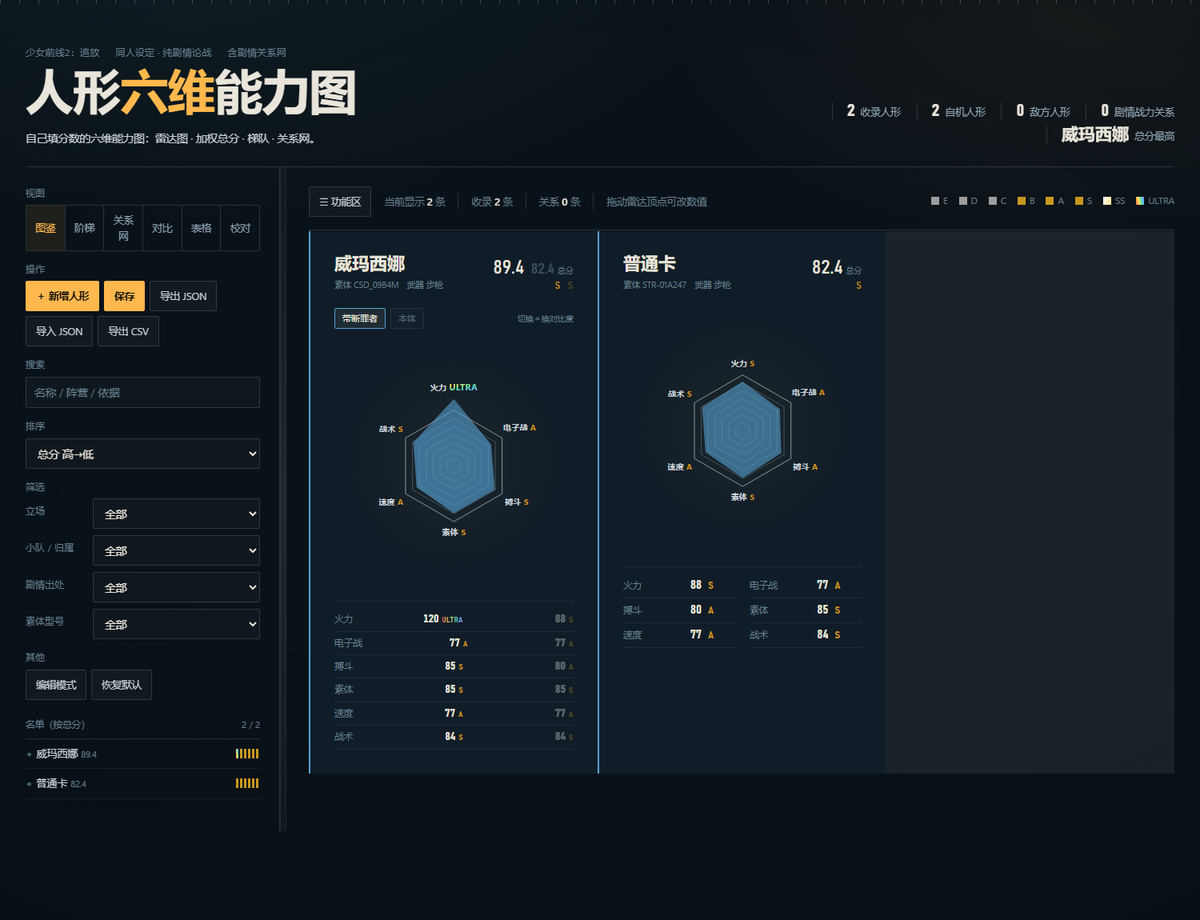
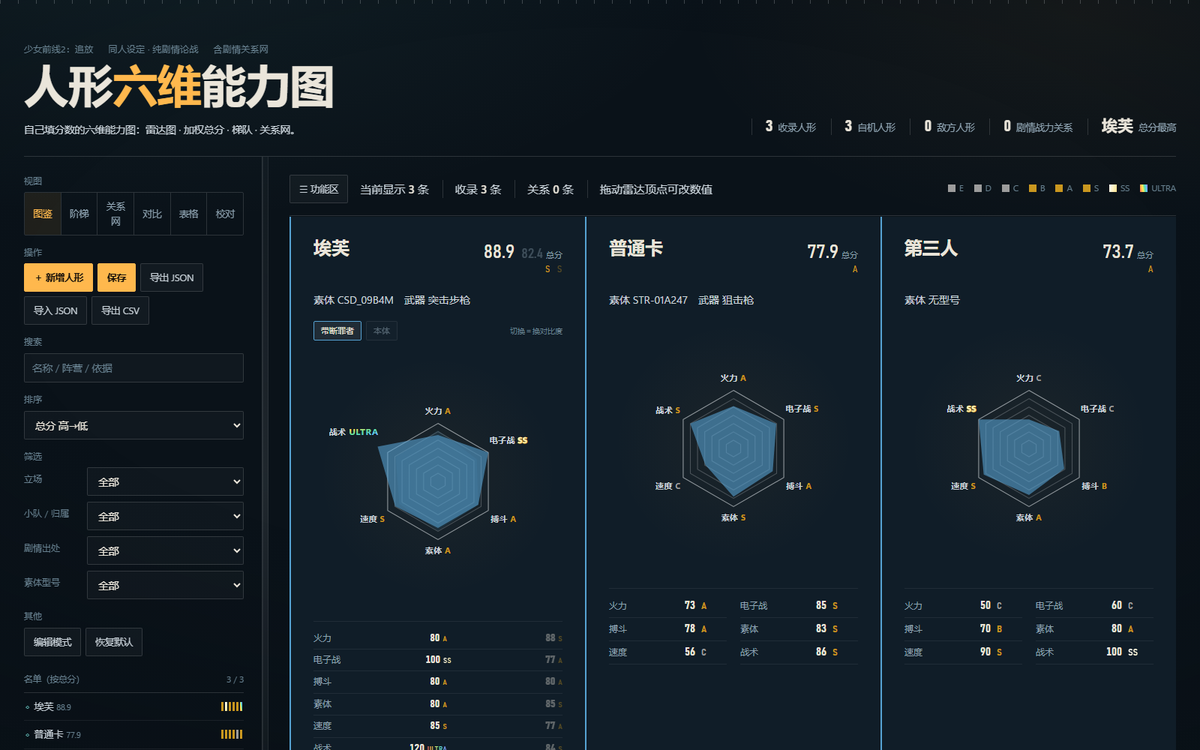
feat(ui): 卡片顶部放大加亮、编辑弹窗双形态改用同一套模板、数值支持滚轮微调
1. 素体型号行 10.5px→14px 且移出 .ptop 独占一行（不再被总分挤换行）；人名 22→24px、总分 24→26px 不断行、总分与账本小字加亮
2. 顶部状态行（当前显示/收录/关系/提示）12.5→15px、颜色 --paper-faint→--paper-2
3. 编辑弹窗：抽出 buildSliderBlock()，主形态与第二形态各一套完全相同的「维度名+滑条+档位输出+参与总分」，第二形态另有独立草稿雷达 #mChart2、名称输入、启用勾选、预设下拉；saveEditor 仅在启用时写 e.form2={label,vals,use}，取消启用会 delete
4. 全局 wheel 监听：所有 number 输入框可滚轮 ±step，带 min/max 钳制并阻止页面滚动

实测：人名 24px / 素体行 14px 单行 / 顶栏 15px；弹窗两套滑块各 6 条、预设一次填满两形态、第二形态滑条改动实时反映到 mS2 与输出；未启用保存 form2=undefined、启用保存 form2 完整；滚轮 50→51 / 49、上限 200 保护；19 PASS

diff --git a/少前2_人形六维能力图.html b/少前2_人形六维能力图.html
@@ -107,7 +107,7 @@ input:focus,select:focus{border-color:var(--amber);background:rgba(229,161,60,.0
 /* ===== plot area ===== */
 .plotbar{display:flex;flex-wrap:wrap;gap:14px;align-items:center;justify-content:space-between;
   padding-bottom:16px;border-bottom:1px solid var(--line)}
-.tally{display:flex;flex-wrap:wrap;gap:10px 16px;font-size:12.5px;color:var(--paper-faint);font-variant-numeric:tabular-nums;margin-right:auto}
+.tally{display:flex;flex-wrap:wrap;gap:10px 18px;font-size:15px;color:var(--paper-2);font-variant-numeric:tabular-nums;margin-right:auto}
 .tally span+span{padding-left:16px;border-left:1px solid var(--line)}
 .tally b{color:var(--paper);font-weight:600}
 .scale{display:flex;gap:14px;flex-wrap:wrap;font-size:11.5px;color:var(--paper-faint);align-items:center}
@@ -122,8 +122,8 @@ input:focus,select:focus{border-color:var(--amber);background:rgba(229,161,60,.0
 .plate.self{border-left:2px solid var(--acc-self,var(--amber))}
 .plate.foe{border-left:2px solid var(--acc-foe,var(--crimson))}
 @keyframes rise{from{opacity:0;transform:translateY(10px)}to{opacity:1;transform:none}}
-.ptop{display:flex;justify-content:space-between;gap:12px;align-items:flex-start}
-.pname{font-family:var(--dsp);font-size:22px;line-height:1.15;letter-spacing:-.005em}
+.ptop{display:flex;justify-content:space-between;gap:10px;align-items:flex-start}
+.pname{font-family:var(--dsp);font-size:24px;line-height:1.15;letter-spacing:-.005em}
 .pfaction{font-size:11.5px;color:var(--paper-dim);margin-top:3px}
 .psrc{font-size:10.5px;color:var(--paper-faint);margin-top:2px}
 .mark{font-size:10.5px;letter-spacing:.06em;padding:2px 7px;border:1px solid var(--line);white-space:nowrap;color:var(--paper-dim)}
@@ -141,7 +141,7 @@ svg.radar{display:block;width:100%;height:auto;overflow:visible;position:relativ
 .evidence{font-size:11.5px;line-height:1.55;color:var(--paper-dim);border-left:1px solid var(--line-hard);padding-left:9px}
 .ledger{display:grid;grid-template-columns:1fr 1fr;gap:0 18px;border-top:1px solid var(--line-soft);padding-top:8px}
 .led{display:flex;justify-content:space-between;gap:8px;align-items:baseline;padding:3px 0;border-bottom:1px solid var(--line-soft)}
-.led span{font-size:11.5px;color:var(--paper-faint)}
+.led span{font-size:12px;color:var(--paper-dim)}
 .led b{font-family:var(--dsp);font-size:15px;font-variant-numeric:tabular-nums}
 .pfoot{display:flex;justify-content:space-between;align-items:flex-end;padding-top:10px;border-top:1px solid var(--line)}
 .total{font-family:var(--dsp);font-size:26px;font-variant-numeric:tabular-nums;line-height:1}
@@ -192,6 +192,17 @@ table.roster td.num{font-variant-numeric:tabular-nums}
 .editmeta{flex:1;min-width:200px}
 .editmeta .q{font-size:11.5px;line-height:1.85;color:var(--paper-dim)}
 .editmeta b{color:var(--paper);font-size:15px}
+.sblock{margin-top:16px;border-top:1px solid var(--line-soft);padding-top:12px}
+.sblock .sliders{margin-top:6px;border-top:0;padding-top:0}
+.shead{display:flex;flex-wrap:wrap;gap:10px;align-items:center;margin-bottom:6px}
+.shead b{font-family:var(--dsp);font-size:15px;color:var(--paper)}
+.shead input[type=text]{padding:4px 8px;background:rgba(0,0,0,.22);border:1px solid var(--line);border-radius:2px;color:inherit;font-size:13.5px;min-width:130px}
+.shead .shint{font-size:11.5px;color:var(--paper-faint)}
+.shead .suse{display:flex;align-items:center;gap:6px;font-size:12.5px;color:var(--paper-dim)}
+.shead select{margin-left:auto;padding:4px 7px;background:var(--ink-900);border:1px solid var(--line);border-radius:2px;color:var(--paper-2);font-size:12.5px}
+.sblock[data-on="0"] .sliders{opacity:.32;pointer-events:none}
+.sblock[data-on="0"] .shead select{margin-left:auto}
+.editcmp{flex-wrap:wrap}
 .srow{display:grid;grid-template-columns:96px 1fr 56px;align-items:center;gap:14px;padding:5px 0}
 .srow label{font-size:12.5px;color:var(--paper-dim)}
 .srow output{font-family:var(--dsp);font-size:16px;text-align:center;border:1px solid var(--line);padding:1px 0}
@@ -217,7 +228,7 @@ input[type=range]::-webkit-slider-thumb{-webkit-appearance:none;width:13px;heigh
 }
 @media print{.rail,.acts,.plotbar{display:none}.plate{animation:none}}
 
-.frm{font-size:10.5px;color:var(--paper-faint);margin-top:4px}
+.frm{font-size:14px;color:var(--paper-2);margin-top:2px;letter-spacing:0;line-height:1.35;white-space:nowrap;overflow:hidden;text-overflow:ellipsis}
 .verdict{font-size:11px;color:#c9a15a;border-left:2px solid #7b5a1f;padding-left:8px;margin-top:-4px}
 .netbar.kinds{margin-bottom:6px}
 .relbtn.kind{font-size:11.5px;padding:3px 8px}
@@ -228,8 +239,8 @@ input[type=range]::-webkit-slider-thumb{-webkit-appearance:none;width:13px;heigh
 .kbadge.定位{color:#c8455f;border-color:#5a2029}
 .frm .up{color:#66a9a0}
 .frm .dn{color:#c9a15a}
-.rankno{font-family:var(--dsp);font-size:24px;line-height:1.05;font-variant-numeric:tabular-nums;margin-top:4px}
-.rankno small{font-family:var(--txt);font-size:10px;color:var(--paper-faint);margin-left:4px}
+.rankno{font-family:var(--dsp);font-size:26px;line-height:1.05;font-variant-numeric:tabular-nums;margin-top:4px;white-space:nowrap}
+.rankno small{font-family:var(--txt);font-size:11px;color:var(--paper-dim);margin-left:4px}
 .tier{font-family:var(--dsp);font-size:12px;letter-spacing:.06em}
 .led b.num{margin-left:auto}
 .led{display:grid;grid-template-columns:1fr auto 34px;align-items:baseline;gap:8px}
@@ -396,23 +407,26 @@ svg.net{display:block;width:100%;height:auto}
     </div>
     <div class="editcmp">
       <div class="editchart" id="mChart"></div>
+      <div class="editchart" id="mChart2" style="flex:0 0 210px;display:none"></div>
       <div class="editmeta">
         <label class="field"><span>对比对象</span><select id="mCmpPick"></select></label>
         <div class="q" id="mStat"></div>
       </div>
     </div>
-    <div class="sliders" id="mSliders"></div>
-    <div class="form2">
-      <div class="f2head"><b>双形态</b>
-        <span>填了「第二形态」这张卡就会多出切换按钮（同一张图叠两形态，切换＝换对比度）</span>
+    <div class="sblock">
+      <div class="shead"><b>主形态</b>
+        <input id="mFormLabel" type="text" placeholder="主表现值">
+        <span class="shint">名字随便起，如「带断罪者」</span></div>
+      <div class="sliders" id="mSliders"></div>
+    </div>
+    <div class="sblock" id="mBlock2">
+      <div class="shead"><b>第二形态</b>
+        <input id="mForm2Label" type="text" placeholder="如 本体">
+        <label class="suse"><input type="checkbox" id="mForm2On"> 启用（卡上出现切换按钮）</label>
         <select id="mFormPreset"><option value="">载入预设…</option>
           <option value="wmx">威玛西娜 · 带断罪者／本体</option>
           <option value="lfy">六分仪 · 入队时／当反派时</option></select></div>
-      <div class="f2row">
-        <label class="field"><span>主形态名称</span><input id="mFormLabel" type="text" placeholder="主表现值"></label>
-        <label class="field"><span>第二形态名称</span><input id="mForm2Label" type="text" placeholder="如 本体"></label>
-      </div>
-      <div class="f2vals" id="mForm2Vals"></div>
+      <div class="sliders" id="mSliders2"></div>
     </div>
     <div class="sheetactions"><button class="btn" id="mCancel">取消</button><button class="btn solid" id="mSave">保存</button></div>
   </div>
@@ -751,13 +765,14 @@ function cardHTML(e, idx, opts){
   var V = fv ? fv.forms.map(function(f){ return fvValues(fv, f); }) : null;
   var series = fv ? fv.forms.map(function(f, i){ return { vals: V[i], color: acc, cls: 'fp f' + i }; })
                   : [{ vals:e.s, color:acc, letters:dimLettersOf(e) }];
+  var FVU = fv ? [ e.use, (e.form2 && e.form2.use) || null ] : null;
   return '<article class="plate '+(e.side==='foe'?'foe':'self')+(fv?' dual':'')+(opts.noAnim?' noanim':'')+'" id="card-'+e.id+'" data-active="'+(fv?(formPick==='1'?'1':'0'):'0')+'"'
     +' style="'+(fv?'--acc:'+acc+';':'')+'animation-delay:'+Math.min(idx,26)*22+'ms">'+
-    '<div class="ptop"><div><h3 class="pname">'+esc(e.name)+'</h3>'+
-    '<div class="frm">素体 '+(e.frame?esc(e.frame):'无型号')+(e.weapon?'　武器 '+esc(e.weapon):'')+'</div></div>'+
-    '<div style="text-align:right">'+(fv?fvTotalsHTML(V):
+    '<div class="ptop"><div><h3 class="pname">'+esc(e.name)+'</h3></div>'+
+    '<div style="text-align:right">'+(fv?fvTotalsHTML(V, FVU):
       '<div class="rankno">'+(e.total!=null?e.total:'—')+'<small>总分</small></div>'+
       '<div class="tier" style="'+gradeStyle(e.tier)+'">'+e.tier+'</div>')+'</div></div>'+
+    '<div class="frm">素体 '+(e.frame?esc(e.frame):'无型号')+(e.weapon?'　武器 '+esc(e.weapon):'')+'</div>'+
     (fv?fvBarHTML(fv):'')+
     '<div class="chart">'+radar(series, LAYOUT.sizeCard, fv?{ gradesAll:true }: { drag:true })+'</div>'+
     '<div class="ledger'+(fv?' dual':'')+'">'+(fv?fvLedgerHTML(V):ledgerHTML(e))+'</div>'+
@@ -1134,9 +1149,9 @@ function fvValues(ch, form){
   if (fvLive(form) && e && e.s && e.s.length === 6) return e.s.slice();
   return form.values.slice();
 }
-function fvTotal(vals){
-  var num = 0, den = 0;
-  DIMS.forEach(function(d, i){ if (WEIGHTS[i]) { num += WEIGHTS[i] * vals[i]; den += WEIGHTS[i]; } });
+function fvTotal(vals, use){
+  var num = 0, den = 0, us = use || [true,true,true,true,true,true];
+  DIMS.forEach(function(d, i){ if (us[i] !== false && WEIGHTS[i]) { num += WEIGHTS[i] * vals[i]; den += WEIGHTS[i]; } });
   return den ? Math.round(num / den * 10) / 10 : 0;
 }
 function fvBarHTML(ch){
@@ -1153,8 +1168,9 @@ function fvLedgerHTML(V){
       '<b class="b">' + b + '<i style="'+gradeStyle(letterOf(b))+'">' + letterOf(b) + '</i></b></div>';
   }).join('');
 }
-function fvTotalsHTML(V){
-  var t0 = fvTotal(V[0]), t1 = fvTotal(V[1]), L0 = letterOf(t0), L1 = letterOf(t1);
+function fvTotalsHTML(V, U){
+  var us = U || [null, null];
+  var t0 = fvTotal(V[0], us[0] || undefined), t1 = fvTotal(V[1], us[1] || undefined), L0 = letterOf(t0), L1 = letterOf(t1);
   return '<div class="rankno"><span class="ta">' + t0 + '</span><span class="tb">' + t1 + '</span><small>总分</small></div>' +
     '<div class="tier"><span class="ta" style="'+gradeStyle(L0)+'">' + L0 + '</span>' +
     '<span class="tb" style="'+gradeStyle(L1)+'">' + L1 + '</span></div>';
@@ -1185,26 +1201,49 @@ function render(){
 
 /* ---------- 编辑 ---------- */
 var editId = null, mS = [50,50,50,50,50,50], mUse = [true,true,true,true,true,true];
-function buildSliders(){
-  var box = q('mSliders');
+var mS2 = [50,50,50,50,50,50], mUse2 = [true,true,true,true,true,true];
+/* 一套模板给两个形态共用：boxId 容器、vals/use 数组（按引用写回）、key 生成 id、onInput 重画回调 */
+function buildSliderBlock(boxId, vals, use, key, onInput){
+  var box = q(boxId); if (!box) return;
   box.innerHTML = DIMS.map(function(dim,i){
-    return '<div class="srow"><label for="sl'+i+'">'+dim+'</label>'+
-      '<input id="sl'+i+'" type="range" min="0" max="200" step="1" value="'+mS[i]+'" data-i="'+i+'">'+
-      '<output data-i="'+i+'">'+mS[i]+' '+letterOf(mS[i])+'</output>'+
-      '<label style="font-size:11px;color:var(--paper-dim);display:flex;align-items:center;gap:4px"><input type="checkbox" data-use="'+i+'"'+(mUse[i]?' checked':'')+'> 参与总分</label></div>';
+    return '<div class="srow"><label for="'+key+i+'">'+dim+'</label>'+
+      '<input id="'+key+i+'" type="range" min="0" max="200" step="1" value="'+vals[i]+'" data-i="'+i+'">'+
+      '<output data-i="'+i+'">'+vals[i]+' '+letterOf(vals[i])+'</output>'+
+      '<label style="font-size:11px;color:var(--paper-dim);display:flex;align-items:center;gap:4px"><input type="checkbox" data-use="'+i+'"'+(use[i]?' checked':'')+'> 参与总分</label></div>';
   }).join('');
   Array.prototype.forEach.call(box.querySelectorAll('input[type=range]'), function(r){
     r.addEventListener('input', function(){
-      var i = parseInt(r.getAttribute('data-i'),10); mS[i] = parseInt(r.value,10);
-      var o = box.querySelector('output[data-i="'+i+'"]'); o.textContent = mS[i]+' '+letterOf(mS[i]);
-      o.style.color = GCOLOR[GRADES.indexOf(letterOf(mS[i]))];
-      renderMChart();
+      var i = parseInt(r.getAttribute('data-i'),10); vals[i] = parseInt(r.value,10);
+      paintOutput(box, i, vals[i]);
+      onInput();
     });
   });
-  DIMS.forEach(function(_,i){ var o = box.querySelector('output[data-i="'+i+'"]'); o.style.color = GCOLOR[GRADES.indexOf(letterOf(mS[i]))]; });
+  DIMS.forEach(function(_, i){ paintOutput(box, i, vals[i]); });
   Array.prototype.forEach.call(box.querySelectorAll('input[data-use]'), function(cb){
-    cb.addEventListener('change', function(){ mUse[parseInt(cb.getAttribute('data-use'),10)] = cb.checked; renderMChart(); });
+    cb.addEventListener('change', function(){ use[parseInt(cb.getAttribute('data-use'),10)] = cb.checked; onInput(); });
   });
+}
+function paintOutput(box, i, v){
+  var o = box.querySelector('output[data-i="'+i+'"]'); if (!o) return;
+  o.textContent = v + ' ' + letterOf(v);
+  o.style.color = GCOLOR[GRADES.indexOf(letterOf(v))];
+}
+function buildSliders(){ buildSliderBlock('mSliders', mS, mUse, 'sl', function(){ renderMChart(); }); }
+function buildSliders2(){ buildSliderBlock('mSliders2', mS2, mUse2, 'sl2', function(){ renderMChart2(); }); }
+function form2On(){ var c = q('mForm2On'); return !!(c && c.checked); }
+function syncBlockState(){
+  var on = form2On();
+  q('mBlock2').setAttribute('data-on', on ? '1' : '0');
+  var c = q('mForm2On'); c.disabled = false;
+  renderMChart2();
+}
+/* 第二形态的草稿图（主形态作淡参照） */
+function renderMChart2(){
+  var box = q('mChart2'); if (!box) return;
+  if (!form2On()){ box.style.display = 'none'; return; }
+  box.style.display = 'block';
+  var series = [ { vals: mS.slice(), color: '#5fb3b0' }, { vals: mS2.slice(), color: '#c8455f' } ];
+  box.innerHTML = radar(series, 210, { labels:false, fillOpacity:0.28 });
 }
 /* ---------- 编辑时的实时对比：左边画草稿，右边可选一个参照 ---------- */
 var mCmpId = '';
@@ -1238,33 +1277,25 @@ function renderMChart(){
   q('mStat').innerHTML = '总分 <b>' + tot + '</b>　' + letterOf(tot) + '　（第 ' + (totals.indexOf(tot) + 1) + '/' + totals.length + '）<br>' +
     DIMS.map(function(d,i){ return DSHORT[i] + '　' + mS[i] + '　' + (mUse[i] === false ? '<span style="color:#c9a15a">不计</span>' : dimRankInfo(mS[i], i)); }).join('<br>');
 }
-function buildForm2(e){
-  q('mForm2Vals').innerHTML = DIMS.map(function(d, i){
-    var v = (e && e.form2 && e.form2.vals) ? e.form2.vals[i] : '';
-    return '<label>' + d + '<input type="number" data-f2="' + i + '" min="0" max="200" step="1" value="' + (v === '' ? '' : v) + '" placeholder="—"></label>';
-  }).join('');
+function loadForm2(e){
   q('mFormLabel').value = (e && e.formLabel) ? e.formLabel : '';
   q('mForm2Label').value = (e && e.form2 && e.form2.label) ? e.form2.label : '';
-}
-function readForm2(){
-  var vals = [], any = false;
-  [].forEach.call(q('mForm2Vals').querySelectorAll('input[data-f2]'), function(inp){
-    var n = parseInt(inp.value, 10);
-    if (isNaN(n)){ vals.push(0); } else { n = Math.max(0, Math.min(200, n)); vals.push(n); any = true; }
-  });
-  if (!q('mForm2Label').value.trim() && !any) return null;
-  return { label: q('mForm2Label').value.trim() || '另一形态', vals: vals };
+  mS2 = (e && e.form2 && e.form2.vals) ? e.form2.vals.slice() : [50,50,50,50,50,50];
+  mUse2 = (e && e.form2 && Array.isArray(e.form2.use)) ? e.form2.use.slice() : [true,true,true,true,true,true];
+  q('mForm2On').checked = !!(e && e.form2);
 }
 function applyFormPreset(key){
   var p = FORM_PRESETS[key];
   if (!p) return;
   q('mFormLabel').value = p.formLabel;
   q('mForm2Label').value = p.form2Label;
-  [].forEach.call(q('mForm2Vals').querySelectorAll('input[data-f2]'), function(inp, i){ inp.value = p.second[i]; });
-  mS = p.main.slice();
-  buildSliders(); renderMChart();
+  q('mForm2On').checked = true;
+  mS = p.main.slice(); mS2 = p.second.slice();
+  mUse = [true,true,true,true,true,true]; mUse2 = [true,true,true,true,true,true];
+  buildSliders(); buildSliders2(); syncBlockState(); renderMChart();
 }
 q('mFormPreset').addEventListener('change', function(){ if (this.value){ applyFormPreset(this.value); this.value = ''; } });
+q('mForm2On').addEventListener('change', syncBlockState);
 function openEditor(id){
   editId = id || null;
   var e = id ? byId(id) : null;
@@ -1277,11 +1308,13 @@ function openEditor(id){
   q('mRank').value = e ? e.total : '—';
   mS = e ? e.s.slice() : [50,50,50,50,50,50];
   mUse = e && Array.isArray(e.use) ? e.use.slice() : [true,true,true,true,true,true];
-  buildForm2(e);
+  loadForm2(e);
   q('mFormPreset').value = '';
   q('mCmpPick').innerHTML = cmpOptions();
   q('mCmpPick').value = mCmpId;
   buildSliders();
+  buildSliders2();
+  syncBlockState();
   renderMChart();
   q('modal').classList.remove('hidden'); q('mName').focus();
 }
@@ -1294,11 +1327,12 @@ function saveEditor(){
   var rec = { name:name, faction:q('mFac').value.trim(), cls:q('mCls').value.trim(), weapon:q('mWeapon').value.trim(),
     brand:q('mBrand').value.trim(), frame:q('mFrame').value.trim(), side:q('mSide').value, src:q('mSrc').value.trim(),
     conf:q('mConf').value, basis:q('mBasis').value.trim(), s:mS.slice(), use:use, total:total, rank:total, tier:letterOf(total) };
-  /* 双形态：第二形态填了才算数 */
-  var f2 = readForm2();
+  /* 多形态：勾了「启用」才算数 */
   rec.formLabel = q('mFormLabel').value.trim() || '';
-  if (f2) rec.form2 = f2;
-  if (editId){ var e = byId(editId); for (var k in rec) e[k] = rec[k]; } else { rec.id = uid(); state.entries.push(rec); }
+  if (form2On()) rec.form2 = { label: q('mForm2Label').value.trim() || '第二形态', vals: mS2.slice(), use: mUse2.slice() };
+  if (editId){ var e = byId(editId); for (var k in rec) e[k] = rec[k];
+    if (!rec.form2) delete e.form2; }                     /* 取消启用时清掉旧数据 */
+  else { rec.id = uid(); state.entries.push(rec); }
   save(); closeEditor(); render();
 }
 function download(name, text, mime){
@@ -1388,6 +1422,20 @@ function applyRail(){
   var f = q('btnFold'); if (f) f.textContent = railFold ? '☰ 展开功能区' : '☰ 功能区';
 }
 
+/* 所有 number 输入框都支持滚轮微调（含 0–200 限制与 step） */
+document.addEventListener('wheel', function(ev){
+  var t = ev.target;
+  if (!t || t.tagName !== 'INPUT' || t.type !== 'number' || t.readOnly) return;
+  var step = parseFloat(t.step) || 1;
+  var v = parseFloat(t.value); if (isNaN(v)) v = parseFloat(t.min) || 0;
+  v += (ev.deltaY < 0 ? step : -step);
+  var mn = (t.min === '' ? -Infinity : parseFloat(t.min)), mx = (t.max === '' ? Infinity : parseFloat(t.max));
+  v = Math.max(mn, Math.min(mx, Math.round(v * 1000) / 1000));
+  t.value = v;
+  t.dispatchEvent(new Event('input', { bubbles:true }));
+  t.dispatchEvent(new Event('change', { bubbles:true }));
+  ev.preventDefault();
+}, { passive:false });
 function bind(){
   q('q').addEventListener('input', function(){ state.q = this.value; render(); });
   q('fSide').addEventListener('change', function(){ state.side = this.value; render(); });

diff --git a/_work/进展摘要.md b/_work/进展摘要.md
@@ -53,6 +53,13 @@
 
 改成手动保存后 `save()` 只标脏（不再落盘），而 `syncLetters()` 挂在 `persist()` 上 → **在编辑弹窗里改数值后，字母档/总分/梯队不会重算**，出现「速度 80 却显示 S」这类陈旧档位。修法：`markDirty()` 内先 `syncLetters()`（拖动顶点那条路本来就有），并在初始化时补一次 `syncLetters()`，保证首屏与数值一致。
 
+## 2.9 卡片顶部与编辑弹窗（2026-10-10 作者四点）
+
+1. **素体型号行放大**：`.frm` 10.5px→14px、颜色升到 `--paper-2`，并**移出 `.ptop` 独占一行**（占满卡宽，不再被右侧总分挤到换行）；人名 22→24px、总分 24→26px（`white-space:nowrap`）、总分小字与账本小字加亮到 `--paper-dim`。
+2. **顶部状态行**（当前显示/收录/关系/提示）12.5px→15px、颜色 `--paper-faint`→`--paper-2`。
+3. **编辑弹窗双形态改用同一套模板**：抽出 `buildSliderBlock()`，主形态（`#mSliders`，`mS/mUse`）与第二形态（`#mSliders2`，`mS2/mUse2`）各一套完全相同的「维度名＋滑条＋档位输出＋参与总分」；第二形态另有独立草稿雷达 `#mChart2`（主形态作淡参照）、名称输入、启用勾选与预设下拉。`saveEditor` 只在「启用」时写 `e.form2 = {label, vals, use}`，取消启用会 `delete e.form2`。
+4. **滚轮改数值**：全局 wheel 监听，所有 `input[type=number]`（含校对表）可用滚轮 ±step，带 min/max 钳制并阻止页面滚动。
+
 ## 3. 关键约定（别踩）
 
 - **权重必须按 DIMS 索引取**：`WEIGHTS` 与 `DIMS` 必须同序（自检 14 盯着）。
